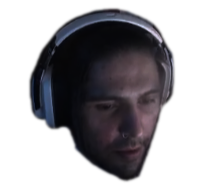
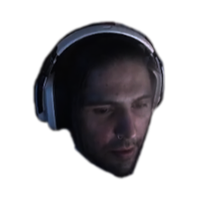
cyberpunk face fix

Changed region(s): [[0.12, 0.0263, 0.87, 0.9737], [0.72, 0.4474, 0.75, 0.4737]]

diff --git a/style.scss b/style.scss
@@ -129,9 +129,10 @@ body {
             .face {
                 position: fixed;
                 margin: 0 auto;
+                margin-top: -30px;
                 top: 200px;
-                min-width: 200px;
-                max-width: 250px;
+                min-height: 250px;
+                max-width: 300px;
             }
             .fists {
                 transition: 0.2s;

diff --git a/style.css b/style.css
@@ -161,9 +161,10 @@ body main .man .body {
 body main .man .face {
   position: fixed;
   margin: 0 auto;
+  margin-top: -30px;
   top: 200px;
-  min-width: 200px;
-  max-width: 250px;
+  min-height: 250px;
+  max-width: 300px;
 }
 
 body main .man .fists {
